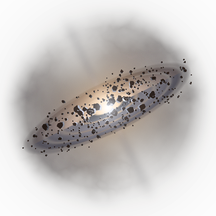
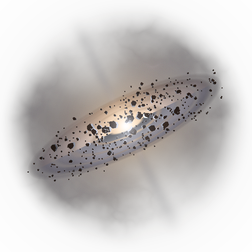
Protostar: bigger, its dust cloud spilling further past the diamond
Claude-Session: https://claude.ai/code/session_01SvLpz42D6eHWVWCCk7rDCh

diff --git a/tools/make_barriers.py b/tools/make_barriers.py
@@ -995,9 +995,11 @@ def _violet(img):
     return Image.fromarray(np.dstack([rgb, px[..., 3]]).clip(0, 255).astype(np.uint8), "RGBA")
 
 
-# Protostars in their protoplanetary disks (^Ypd, four hexes; ^Ytpd, three):
+# Protostars in their protoplanetary disks (^Ypd, four hexes; ^Ytpd, three),
+# on a canvas big enough for the dust cloud to spill well past the diamond:
 # an amber one, a young red one deep in its cocoon, and a hot white one in
 # cold grey dust.
+PROTOSTAR_SIZE = 252
 PROTOSTARS = [
     dict(),
     dict(dust=((40, 10, 8), (115, 35, 20), (190, 75, 40), (240, 140, 85), (255, 220, 190)), haze=(140, 55, 40), haze_lit=(255, 170, 120),
@@ -1009,7 +1011,7 @@ PROTOSTARS = [
 ]
 
 
-def protostar(rng, size=SUPERGIANT_SIZE, A=92, tilt=0.34, angle=-20, star_r=9,
+def protostar(rng, size=PROTOSTAR_SIZE, A=106, tilt=0.34, angle=-20, star_r=9,
               dust=((40, 20, 10), (120, 62, 28), (200, 120, 55), (245, 195, 120), (255, 245, 215)),
               haze=(150, 85, 45), haze_lit=(255, 205, 140), glare=(255, 240, 205), jet=(150, 190, 255), rim=(255, 200, 130),
               n_rocks=380, gaps=((0.38, 0.05, 0.75), (0.62, 0.04, 0.6), (0.82, 0.03, 0.5))):
@@ -1044,7 +1046,7 @@ def protostar(rng, size=SUPERGIANT_SIZE, A=92, tilt=0.34, angle=-20, star_r=9,
     wisp = 1 - np.abs(2 * _noise(rng, W, 5, 4) - 1)          # ridged: filaments
     env = np.exp(-env_r ** 2 * 1.1) * (0.3 + 0.6 * n1 + 0.5 * wisp ** 3) * (1 - 0.7 * pole)
     edge = np.clip((W / 2 - np.hypot(x, y)) / (0.12 * W), 0, 1) ** 1.5
-    env_a = np.clip(env * 1.25, 0, 0.95) * edge
+    env_a = np.clip(env * 1.4, 0, 0.95) * edge
     light = np.exp(-r * 2.0)
     env_rgb = _mix(np.array(haze, np.float32) * 0.45, np.array(haze_lit, np.float32), np.clip(light * 1.2 + 0.35 * wisp ** 2 * light ** 0.3, 0, 1))
     out = np.zeros((W, W, 3), np.float32); al = np.zeros((W, W), np.float32)
@@ -1069,7 +1071,7 @@ def protostar(rng, size=SUPERGIANT_SIZE, A=92, tilt=0.34, angle=-20, star_r=9,
         dens *= 1 - g * np.exp(-((q - c) / w) ** 2)
     mott = _noise(rng, W, 5, 8)
     dens *= 0.75 + 0.45 * mott
-    heat = np.clip(np.exp(-q * 2.0) * 1.1 + 0.15 * mott, 0, 1)
+    heat = np.clip(np.exp(-q * 1.6) * 1.1 + 0.15 * mott, 0, 1)
     disk_rgb = ramp(heat)
     front = v > 0
     back_a = np.clip(dens * 1.15, 0, 1) * (~front)
